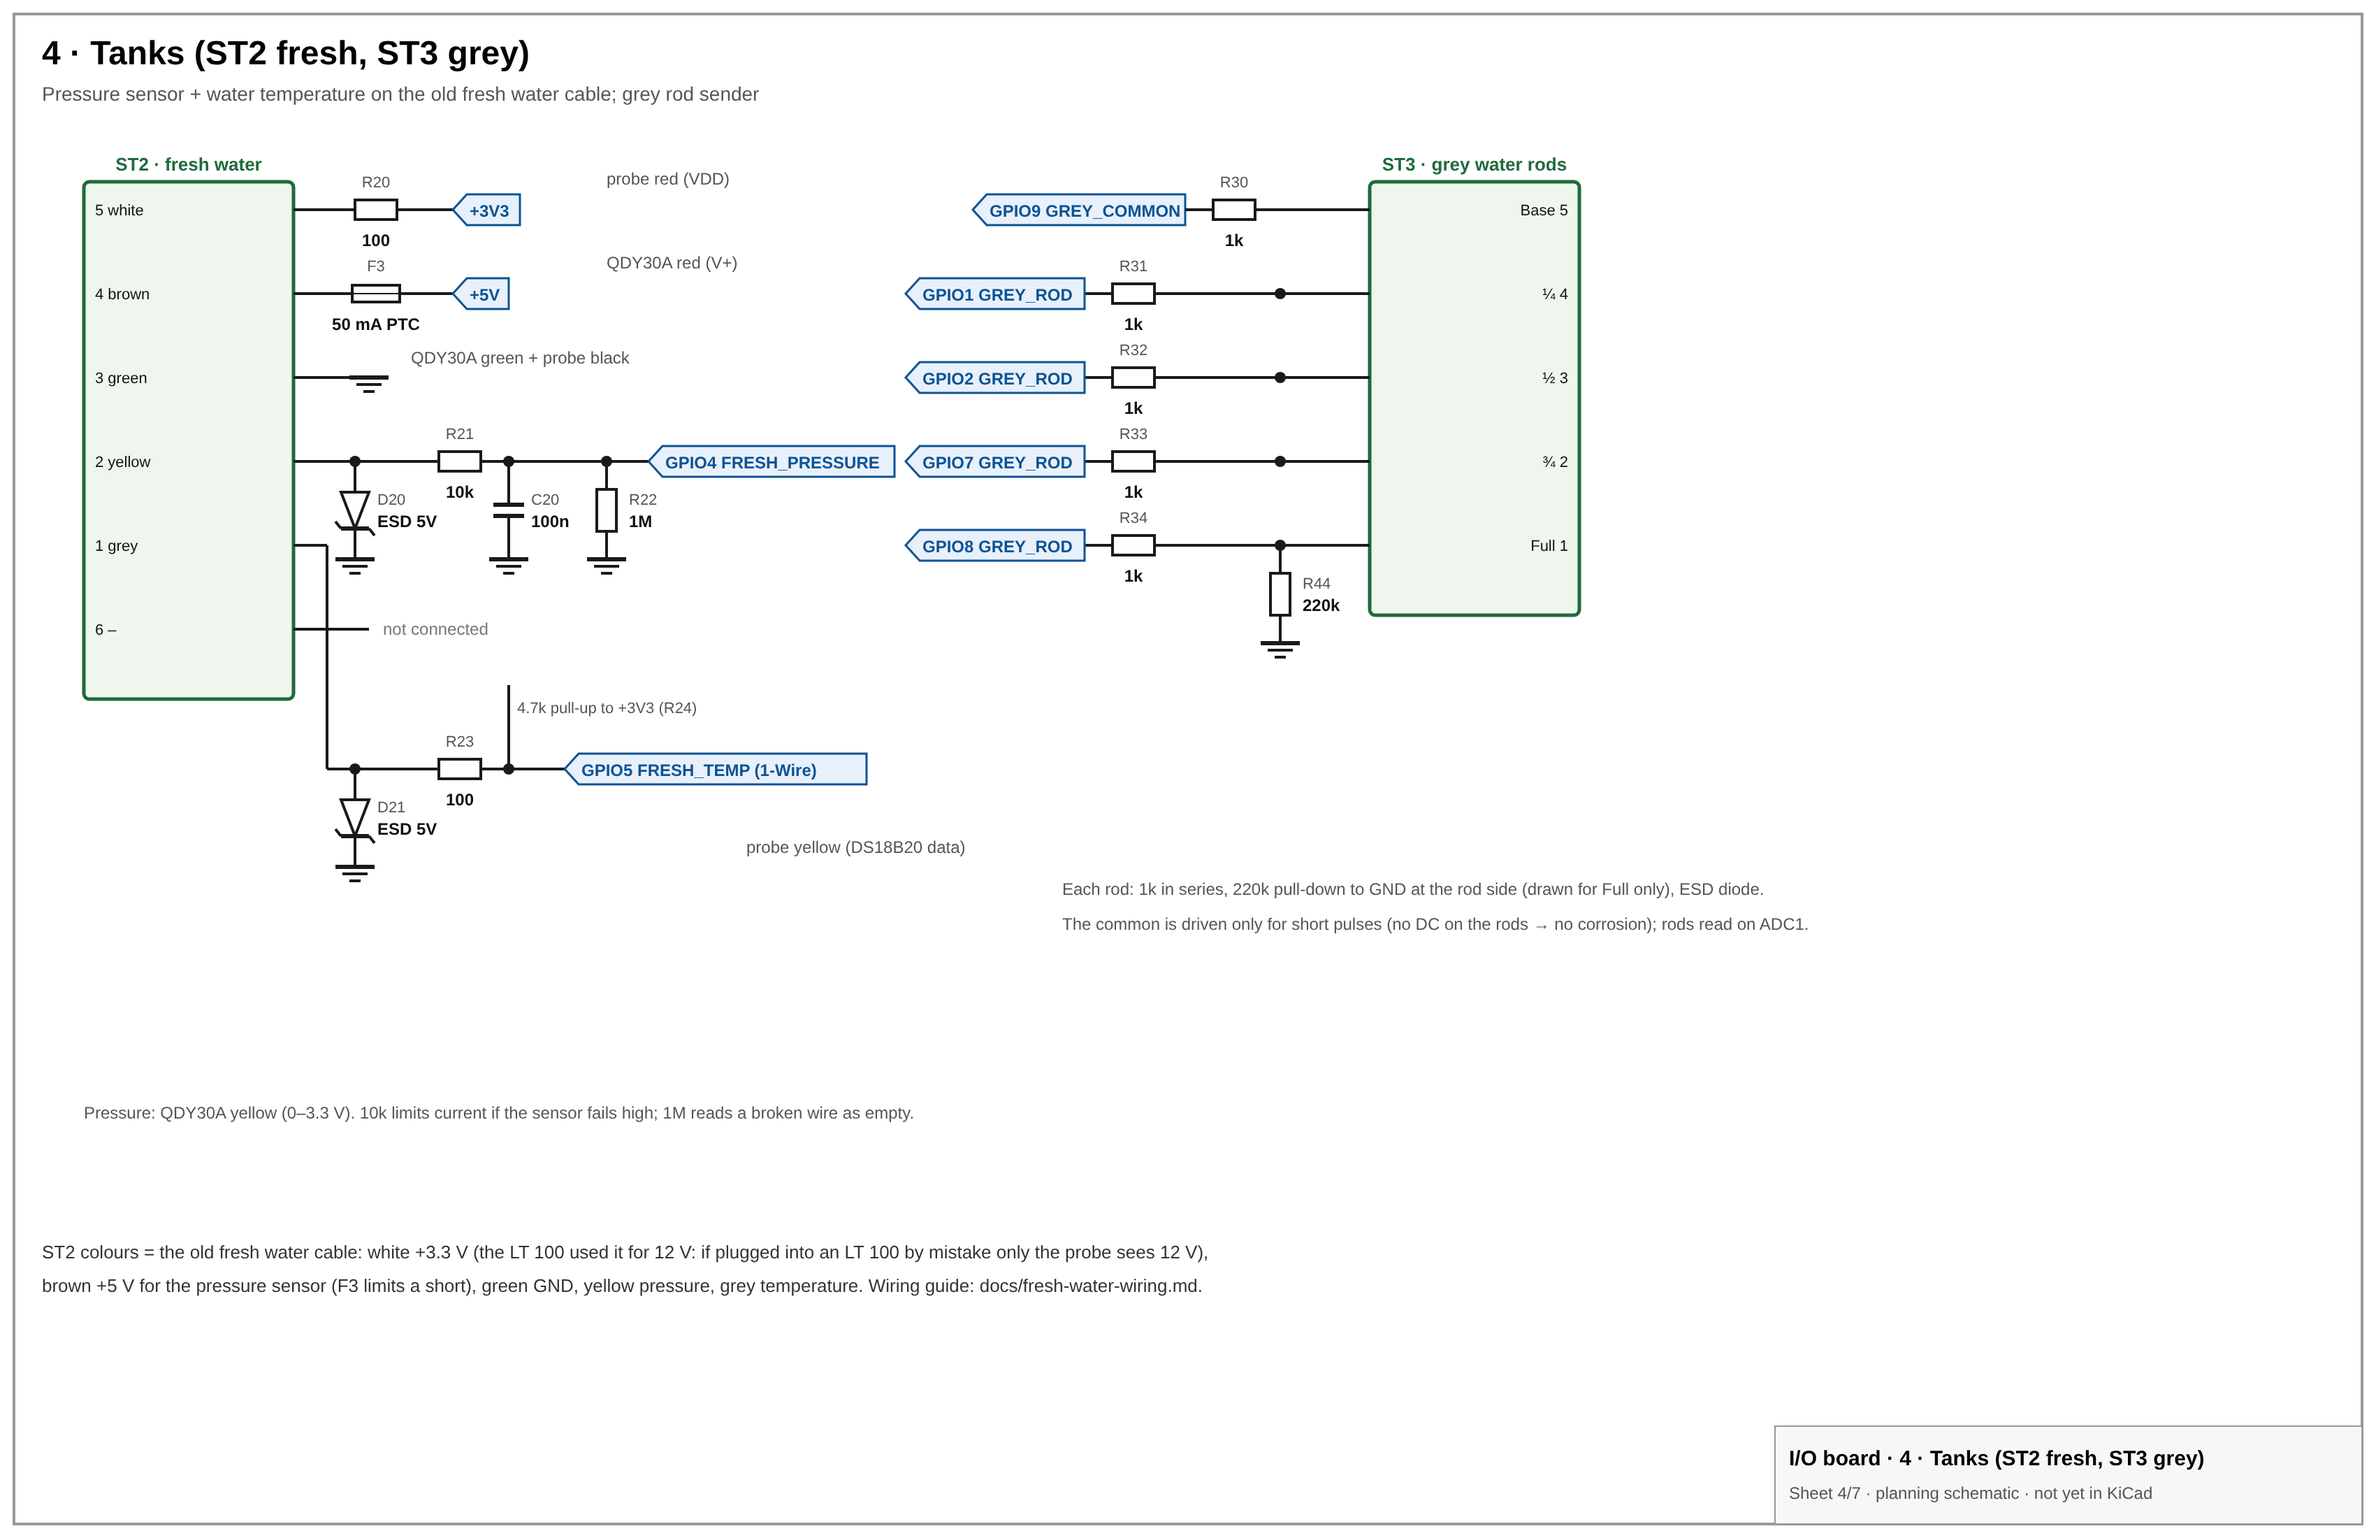
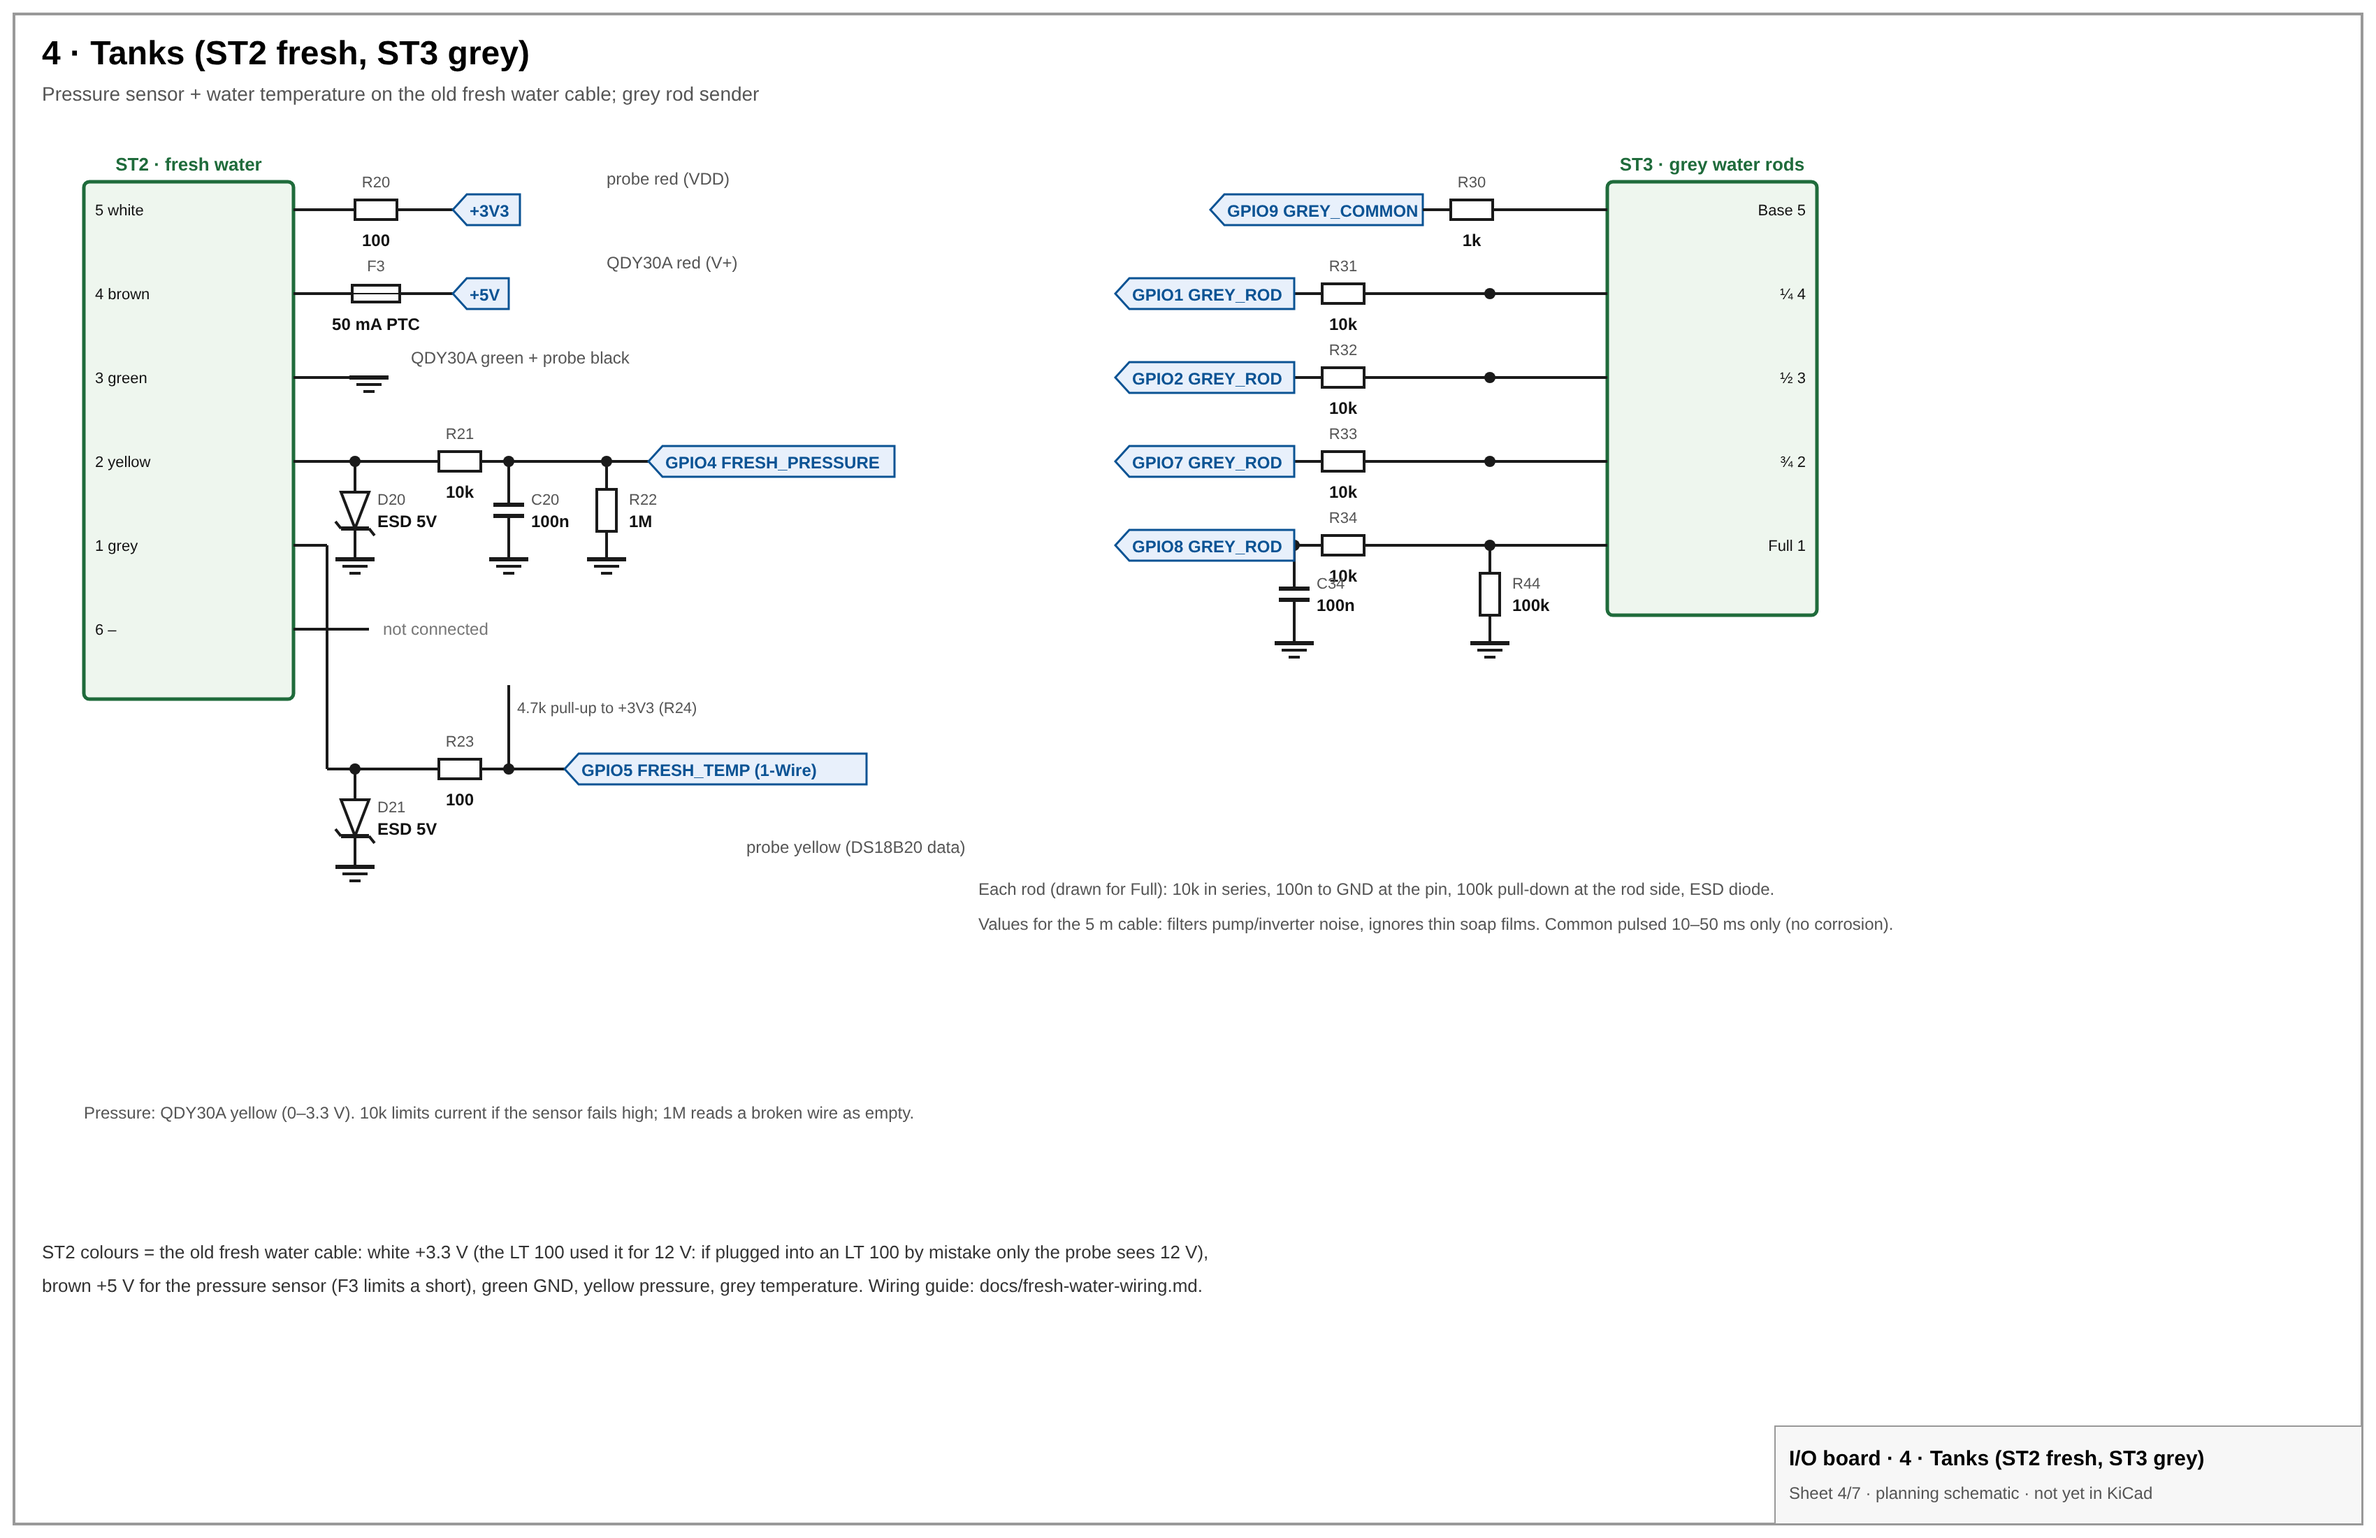
I/O board: outdoor light, CP plus 12 V and Truma pins in the plan; grey rods 10k/100n/100k for the 5 m cable
Claude-Session: https://claude.ai/code/session_017Ac5dLa5nMit1aiT2DcVLT

Changed region(s): [[0.3741, 0.0927, 0.7794, 0.4327], [0.4365, 0.5564, 0.7794, 0.6182]]

diff --git a/docs/io-board.md b/docs/io-board.md
@@ -1,5 +1,7 @@
 # I/O board: specification (planning)
 
+> Full planning schematic, parts list, 3D view and design review: [io-board-schematic.md](io-board-schematic.md).
+
 One printed circuit board that **replaces the LT 100 panel** and the hand-wired I/O extension
 (ESP32-S3 dev board, buck converter, resistors). It switches the EBL 119, reads the fresh and grey
 tanks, talks to the Truma CP plus, charges a tablet, and has 3 inputs, 2 outputs and a tilt
@@ -20,7 +22,8 @@ measured, the schematic is next.
 | USB-C programming | Flashing and serial log (ESP32 native USB), Boot and Reset buttons | USB-C |
 | USB-C tablet | Charging socket on the front plate, **USB PD up to 30 W** (PD charger chip, e.g. SW3516 or IP6557, from 12 V AUX), plain 5 V for devices without PD; the board can switch it off | USB-C, front plate |
 | 3 inputs | Isolated (optocoupler), 5–30 V; jumper per input: "12 V = on" or "contact to ground = on"; what each input means is set later in the settings | push-in |
-| 2 outputs, 5 A | Relays with changeover contact, 5 A at 14 V DC, LED each; the common (C) is **fed from 12 V AUX on the board** through a 5 A fuse, so NO / NC give switched 12 V (a solder jumper turns a relay back into a dry contact). **Output 1 = light** (two-way with the wall switch, "light on" by current sensing), output 2 free | push-in |
+| 2 outputs, 5 A | Relays with changeover contact, C fed from 12 V AUX (5 A fuse each, solder jumper for a dry contact). **Output 1 = inside light**, **output 2 = outdoor light**, both two-way capable with a wall switch and with "light on" current sense | push-in |
+| CP plus 12 V | Fused 12 V out (1 A PTC, from 12 V AUX) for the Truma CP plus panel's own supply wires (red, red/black) | push-in |
 | Tilt | Accelerometer LIS2DW12: levelling, water tank slope correction, movement | on the board |
 | Humidity + temperature | **SHT40** on the board (I²C), in the front plate area behind a vent slot, cut off from the warm parts by a slot in the board; replaces temperature probe 2 | on the board |
 | **Expansion (RJ45)** | 12 V, ground and I²C for expansion boards (more inputs/outputs later), I²C as a differential pair (PCA9615) so the cable can be several metres | RJ45 |
@@ -120,14 +123,25 @@ Step-by-step guide: [fresh-water-wiring.md](fresh-water-wiring.md).
 
 ## ST3: grey water rods
 
-Micro-Fit 5-pin, same plug as the LT 100's grey socket. The board drives the common rod with short
-pulses (no constant voltage, so the rods don't corrode) and reads the four rods, see
-[wiring.md](wiring.md#grey-water-tank-rod-sender-5-wire-plug).
+Micro-Fit 5-pin, same plug as the LT 100's grey socket. The sensor is a passive rod probe (5
+stainless rods in a 53 mm cap, up to 380 mm deep, about 5 m of cable): common (longest) rod plus
+¼, ½, ¾ and full. Its wire colours (ge/gr, gn, br, ws) are not certain from the datasheet:
+find the common and each level wire with the beep test before crimping.
+
+* Common rod driven from GPIO9 only during a short pulse (10–50 ms), never constant: no
+  corrosion; 1 kΩ in series.
+* Each level rod: **10 kΩ in series, 100 nF to GND and 100 kΩ pull-down** at the board (filter
+  for the 5 m cable, ignores thin soap films), read on ADC1 (GPIO1, 2, 7, 8). Grey water conducts
+  well, so 3.3 V is plenty.
+* A wet rod above a dry one is reported as a fault (grease, a broken wire), see
+  [wiring.md](wiring.md#grey-water-tank-rod-sender-5-wire-plug).
 
 ## Truma CP plus (LIN)
 
-Two RJ12 sockets wired in parallel (pins straight through), like the CP plus's own sockets: one
-cable from the CP plus in, the other out to the next device if there is one. The TJA1021
+Two RJ12 sockets wired in parallel (pins straight through), like a Truma TIN distributor: one
+cable from the CP plus in, the other out to the next device if there is one. **Pin 3 = LIN, pin 5
+= GND** (from the inetbox.py project, to confirm with a meter); use a 1:1 RJ12 cable. The CP plus
+also needs its own 12 V supply: the board's fused **CP plus 12 V** terminal. The TJA1021
 transceiver listens and answers like an iNet box (see [truma.md](truma.md)).
 
 ## Outputs: 2 relays, 5 A
@@ -159,7 +173,7 @@ relay and switch form a two-way (stairway) circuit, now fed from the board's sid
   forgotten light can't drain the battery; the board warns before that from the battery voltage.
 * The relay stays where it is if the ESP32 restarts; only without power on 12 V AUX the light is off.
 
-**Output 2: free**, switched +12 V on NO (and NC), 5 A; dry contact by solder jumper.
+**Output 2: outdoor light**, wired the same way: two-way with its own switch if it has one, or lamp + on NO only; its own "light on" sense (GPIO6).
 
 ## Inputs (3)
 
@@ -201,8 +215,8 @@ All functions fit on the ESP32's own pins; no I/O expander or ADC chip.
 | I²C (tilt sensor, expansion) | 15, 16 |
 | Interrupt (tilt sensor, expansion) | 47 |
 | Truma LIN RX / TX / SLP | 17 / 18 / 21 |
-| Relay 1 (light) / relay 2 | 38 / 39 |
-| "Light on" (relay 1 current sense) | 14 |
+| Relay 1 (inside light) / relay 2 (outdoor light) | 38 / 39 |
+| "Light on" inside / outdoor (current sense) | 14 / 6 |
 | Inputs 1 / 2 / 3 | 11 / 12 / 13 |
 | EBL ON / OFF pulse | 35 / 36 |
 | EBL "12 V on" / mains | 37 / 42 |
@@ -210,7 +224,6 @@ All functions fit on the ESP32's own pins; no I/O expander or ADC chip.
 | USB tablet socket on/off | 41 |
 | RGB status LED | 48 |
 | USB-C programming | 19, 20 |
-| Free | 6 |
 | Kept free | 0, 3, 45, 46 (strapping) |
 
 I²C addresses: LIS2DW12 0x18, SHT40 0x44; expansion boards use other addresses.

diff --git a/docs/io-board-schematic.md b/docs/io-board-schematic.md
@@ -95,8 +95,9 @@ projects. What is right, what to check, and what I recommend changing.
 3. **Check the EBL Spare 4 fuse.** 12 V AUX can draw up to about 10 A (two lights, 30 W charging,
    CP plus, expansion); the board's F2 is 10 A. The fuse in the EBL's Spare 4 slot must be at
    least that, or the lights and charging share whatever it allows.
-4. **Is there a grey water sensor?** The LT 100's grey socket was empty in your photo. If there
-   is no sensor, ST3 can stay on the board for later, but nothing needs wiring now.
+4. **Grey water sensor:** a passive 5-rod probe on about 5 m of cable. Its wire colours from the
+   datasheet are uncertain (two of ge/gr): find the common and each level with the beep test.
+   The rod inputs now use 10 kΩ series, 100 nF and 100 kΩ pull-down (sheet 4) for the long cable.
 5. **RJ45 carries 12 V.** Keep the "NOT ETHERNET" label on the casing, or use a different plug
    (e.g. a 6-pin Micro-Fit) so nobody plugs a network cable in by mistake.
 
